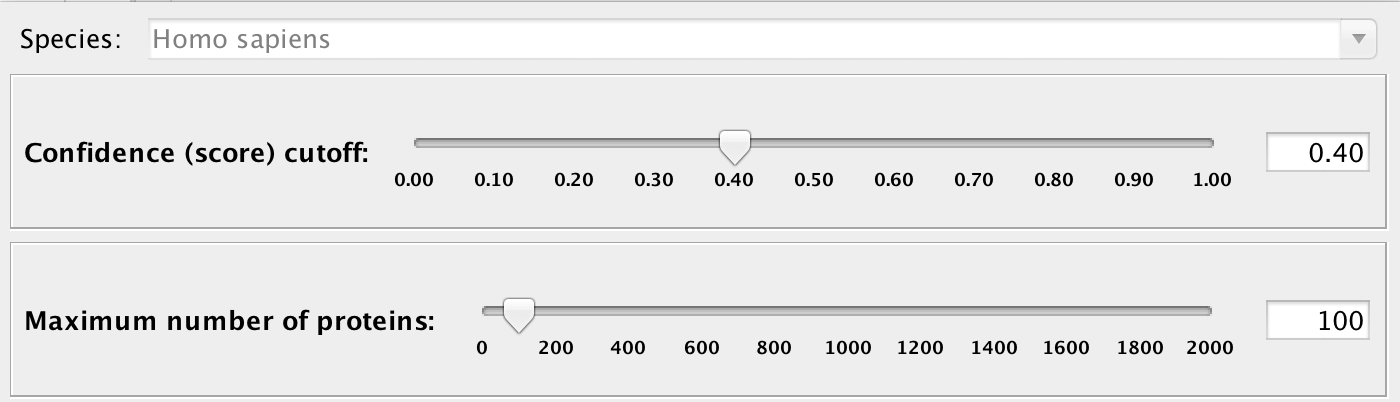
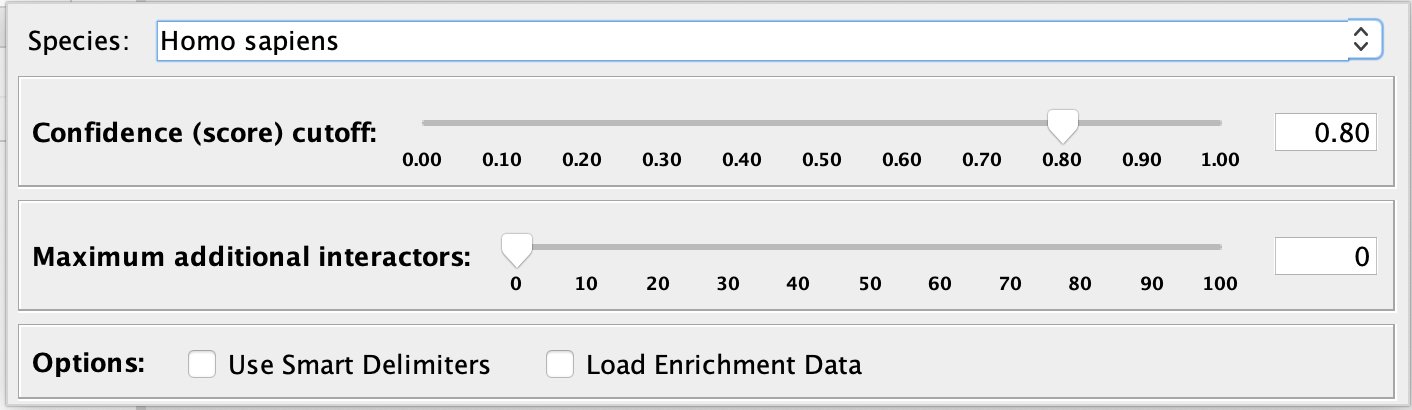
Updates for STRING options

diff --git a/presentations/modules/finding-network-data/module.html b/presentations/modules/finding-network-data/module.html
@@ -126,12 +126,19 @@
 
 <section>
     <h3>STRING Options</h3>
-        <img style="width:50%;" src="modules/finding-network-data/STRING-options.png"><br />
+		<div>
+   <img style="width:50%;position:absolute;top:100px;left:100px" src="modules/finding-network-data/STRING-options.png"><br />
+   <img class="fragment" data-fragment-index="1" style="width:50%;position:absolute;top:100px;left:100px" src="modules/finding-network-data/STRING-EnrichmentOptions.png">
+   <img class="fragment" data-fragment-index="2" style="width:50%;position:absolute;top:100px;left:100px" src="modules/finding-network-data/STRING-NodeResults.png">
+   <img class="fragment" data-fragment-index="3" style="width:50%;position:absolute;top:100px;left:100px" src="modules/finding-network-data/STRING-EdgeResults.png">
+		</div>
 		<div style="font-size:80%">
 		<ul>
         <li>Change confidence level of interactions</li>
         <li>Expand network</li>
-        <li>Functional Enrichment</li>
+        <li class="fragment" data-fragment-index="1" >Functional Enrichment</li>
+				<li class="fragment" data-fragment-index="2" >Filter by tissue or compartment</li>
+				<li class="fragment" data-fragment-index="3" >Filter by evidence type</li>
         </ul>
 		</div>
     
